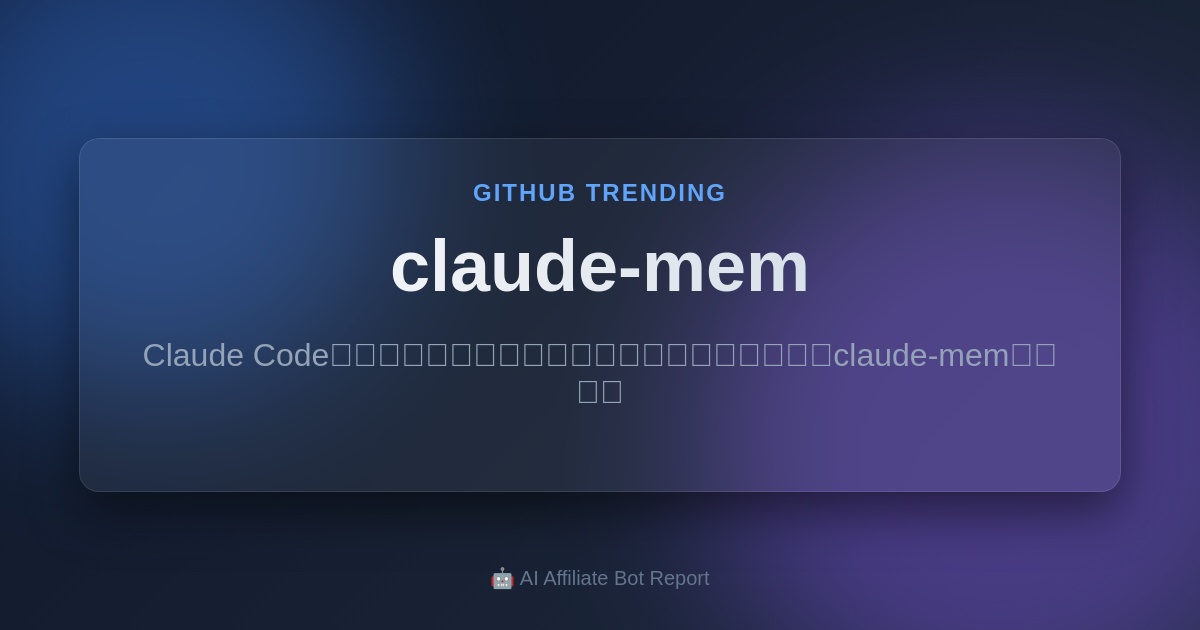
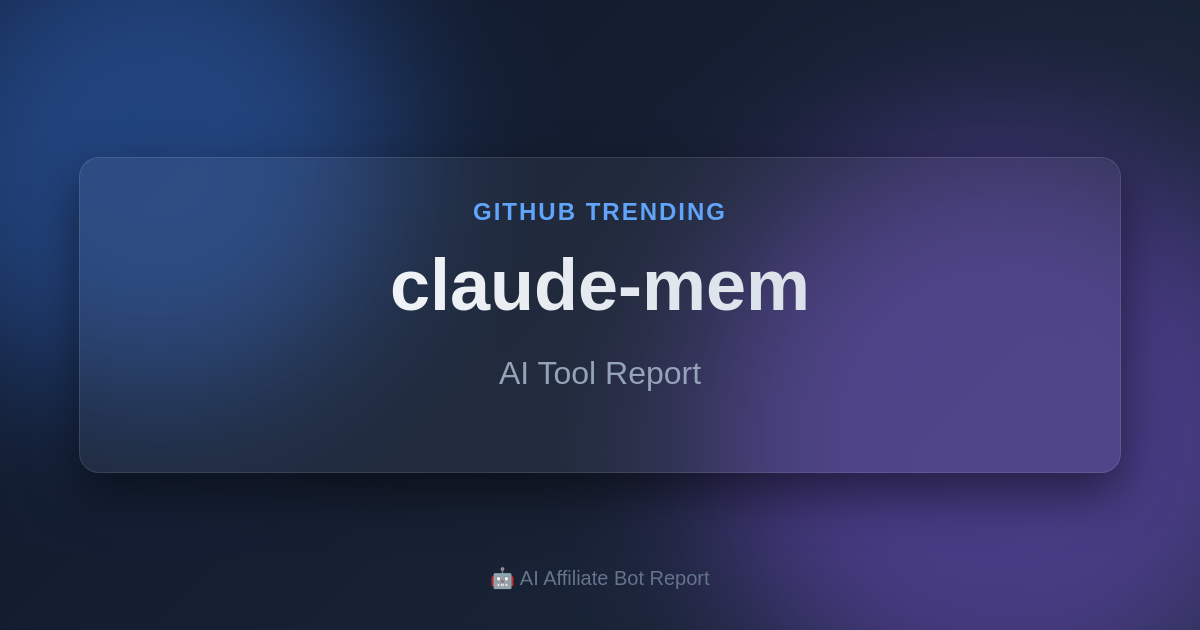
AI Agent: Created new content [skip ci]

Changed region(s): [[0.3083, 0.2714, 0.6783, 0.5127], [0.0617, 0.7238, 0.9558, 0.7841], [0.1233, 0.5429, 0.8942, 0.6333]]

diff --git a/drafts/draft_20260205_0821_claude-mem.md b/drafts/draft_20260205_0821_claude-mem.md
@@ -1,0 +1,60 @@
+## Claude Code開発の救世主！永続的な記憶でAIの能力を最大限に引き出す「claude-mem」とは？
+
+> ※本記事はプロモーションを含みます
+
+プログラミングにおけるAIアシスタントの活用は、もはや当たり前となっています。特にAnthropicのClaude Codeは、その高いコーディング能力で多くの開発者を魅了しています。しかし、セッションが終了するたびにそれまでの会話や作業内容がリセットされてしまう「記憶の壁」に直面していませんか？今回は、その課題を根本から解決し、Claude Codeの真のパートナーとなる画期的なプラグイン「claude-mem」をご紹介します。
+
+### claude-memとは？
+
+「claude-mem」は、Claude Code専用に設計された永続的なメモリ圧縮システムです。開発セッション中にClaudeが行ったすべての操作やツール利用の観察を自動的に捕捉し、それをAI（Claudeのagent-sdkを利用）でインテリジェントに圧縮。そして、未来のセッションにその関連コンテキストを効果的に注入します。これにより、Claudeはセッションが終了したり再接続されたりした後でも、プロジェクトに関する継続的な知識を維持できるようになります。
+
+### 主な特徴
+
+claude-memは、開発者の生産性を劇的に向上させるための以下の強力な機能を提供します。
+
+*   **自動コンテキストキャプチャ**: コーディングセッション中のClaudeの行動、ツール使用、および出力に関するすべての観察を自動的に記録します。
+*   **AIによる効率的な記憶圧縮**: 捕捉した情報をClaude自身のAIエージェントSDKでインテリジェントに要約・圧縮します。これにより、必要な情報だけが効率的に保存され、Redditの報告では「トークン使用量を95%削減する」効果も期待されています。
+*   **セッション間の永続的なコンテキスト維持**: セッションが中断されても、プロジェクトに関する知識が途切れることなく、次のセッションに引き継がれます。
+*   **関連コンテキストの自動注入**: 未来のセッションにおいて、現在のタスクに関連する過去の会話や作業内容が自動的にClaudeに提供されます。
+*   **開発効率の大幅な向上**: Claudeが常にプロジェクト全体の状況を把握しているため、同じ説明を繰り返す手間が省け、より複雑なタスクや長期プロジェクトにもスムーズに取り組めます。
+*   **Claude Code専用設計**: Claude Codeの能力を最大限に引き出すために特化して開発されたプラグインです。
+
+{RECOMMENDED_PRODUCTS}
+
+### 導入方法（Quick Start）
+
+claude-memの導入は非常に簡単です。Claude Codeの新しいセッションを開始し、ターミナルで以下のコマンドを実行するだけです。
+
+```
+> /plugin marketplace add t
+```
+
+このコマンドを実行すると、claude-memがClaude Codeに統合され、すぐにその永続的な記憶の恩恵を受けられるようになります。
+
+### メリットとデメリット
+
+**メリット (Pros):**
+
+*   **記憶力の向上**: Claudeが開発プロジェクトの長期的なコンテキストを維持し、より賢く、より連続的なアシスタンスを提供します。
+*   **トークンコストの削減**: AIによる効率的な要約・圧縮により、不必要なトークン消費を抑え、運用コスト削減に貢献します。
+*   **開発生産性の劇的な向上**: 同じ情報を繰り返し提供する必要がなくなり、開発者はより創造的で複雑な問題解決に集中できます。
+*   **シームレスな作業フロー**: セッションの再開や中断が頻繁に行われる環境でも、スムーズな開発体験を維持します。
+*   **オープンソース**: 開発コミュニティによって継続的に改善され、透明性が確保されています。
+
+**デメリット (Cons):**
+
+*   **Claude Codeに特化**: 他のAIアシスタントや開発環境では直接利用できません。
+*   **初期設定の手間**: プラグインの追加コマンドの実行が必要です（ただし非常にシンプルです）。
+*   **AI圧縮の限界**: 高度なAI圧縮とはいえ、ごく稀に文脈の一部が要約によって見落とされる可能性はゼロではありません（しかし、そのリスクは非常に低いとされています）。
+
+### まとめ
+
+claude-memは、Claude Codeとの対話における「記憶の壁」を打ち破り、AIアシスタントの可能性を大きく広げる革新的なツールです。開発セッションのコンテキストを永続的に保持し、必要に応じて関連情報を自動的に注入することで、Claudeはまるでプロジェクトを完全に理解しているかのように、より高度で一貫したサポートを提供します。
+
+もしあなたがClaude Codeを日常的に利用し、その生産性をさらに一段引き上げたいと考えているなら、claude-memは間違いなく試すべきプラグインです。ぜひ導入して、AIとの新しい開発体験を始めてみてください。詳細情報やソースコードは、以下のGitHubリポジトリで確認できます。
+
+[claude-mem GitHubリポジトリ](https://github.com/thedotmack/claude-mem)
+
+---
+### PR
+<a href="https://rpx.a8.net/svt/ejp?a8mat=4AX38F+LFMK2+2HOM+BW8O1&rakuten=y&a8ejpredirect=http%3A%2F%2Fhb.afl.rakuten.co.jp%2Fhgc%2F0eac8dc2.9a477d4e.0eac8dc3.0aa56a48%2Fa26020474676_4AX38F_LFMK2_2HOM_BW8O1%3Fpc%3Dhttps%253A%252F%252Fbooks.rakuten.co.jp%252Frb%252F17608703%252F%253FvariantId%253D17608703%26m%3Dhttps%253A%252F%252Fbooks.rakuten.co.jp%252Frb%252F17608703%252F%253FvariantId%253D17608703" rel="nofollow">スッキリわかるPython入門 第2版</a><img border="0" width="1" height="1" src="https://www16.a8.net/0.gif?a8mat=4AX38F+LFMK2+2HOM+BW8O1" alt="">
